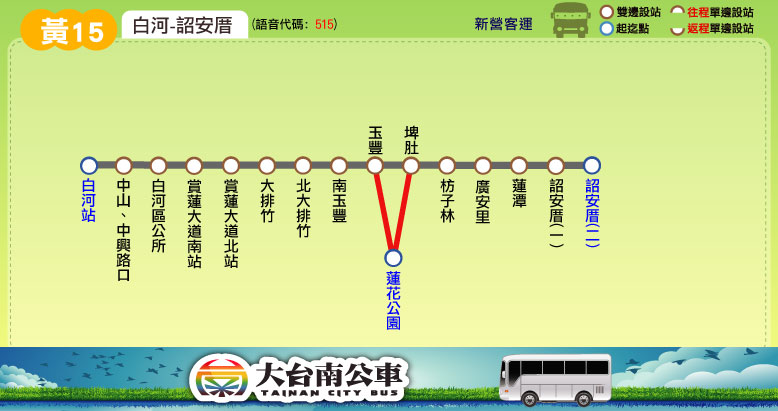
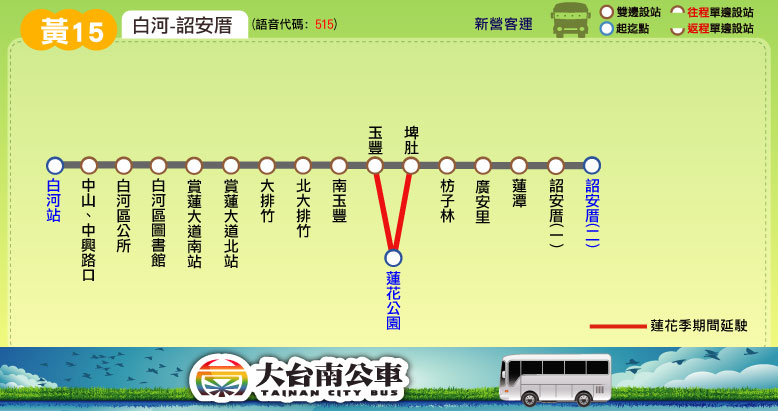
新增站位：黃6-1、黃10、黃15(增「白河區圖書館」)；更新票價表：黃10

Changed region(s): [[0.0617, 0.3796, 0.2159, 0.7007], [0.7404, 0.7591, 0.9563, 0.8175]]

diff --git a/route/fare_and_time/yellow_10.js b/route/fare_and_time/yellow_10.js
@@ -1,18 +1,19 @@
-yellow_10_interval_name = ["泰安宮","後壁<br />火車站","大路墘","顯濟宮","土溝里","白河","河東","大林","大林<br />路口","檨仔坑","石廟仔","籠仔內","六重溪"];
-yellow_10_interval_stop = [ // 2017.06.13 checked
+yellow_10_interval_name = ["泰安宮","後壁<br />火車站","大路墘","顯濟宮","土溝里","白河","河東","大林","大林<br />路口","檨仔坑","石廟仔","籠仔內","六重溪","鎮安宮"];
+yellow_10_interval_stop = [ // 2018.08.01 checked
 ["泰安宮","嘉苳里","下茄苳"], // 泰安宮
 ["後壁高中","良食故事館","後壁火車站","後壁區公所","後壁里","後壁國小"], // 後壁火車站
 ["大路墘"], // 大路墘
 ["嘉民里","東上茄苳","顯濟宮","永安國小"], // 顯濟宮
 ["土溝里","後壁竹子腳","下庄仔"], // 土溝里
-["白河商工","舊地政","白河國中","白河分局","中山、中興路口","白河站","念佛會"], // 白河
+["白河區圖書館","白河商工","舊地政","白河國中","白河分局","中山、中興路口","白河站","念佛會"], // 白河
 ["凹底","畚箕湖","河東","河東國小"], // 河東
 ["竹林路口","大林","大林中山堂","檨子林","下厝仔"], // 大林
 ["大林路口","山頂仔"], // 大林路口
-["檨仔坑","台影文化城"], // 檨仔坑
-["石廟仔"], // 石廟仔
+["檨仔坑"], // 檨仔坑
+["台影文化城","石廟仔"], // 石廟仔
 ["三重溪","籠仔內"], // 籠仔內
-["六溪國小","六溪部落","六重溪","南勢仔","禪源","頂埔","鎮安宮"] // 六重溪
+["六溪國小","六溪部落","六重溪","南勢仔","禪源","頂埔"], // 六重溪
+["鎮安宮"] // 鎮安宮
 ];
 yellow_10_fare = [
 [26],
@@ -22,12 +23,13 @@ yellow_10_fare = [
 [27,26,26,26,26],
 [43,34,28,26,26,26],
 [51,42,36,29,26,26,26],
-[55,45,40,33,28,26,26,26],
-[59,49,43,37,32,26,26,26,26],
-[63,53,48,41,36,26,26,26,26,26],
-[65,55,50,43,38,26,26,26,26,26,26],
-[69,60,54,47,42,26,26,26,26,26,26,26],
-[73,63,58,51,46,30,26,26,26,26,26,26,26]
+[55,46,40,34,28,26,26,26],
+[59,50,44,37,32,26,26,26,26],
+[63,54,48,42,36,26,26,26,26,26],
+[66,56,51,44,39,26,26,26,26,26,26],
+[70,60,55,48,43,27,26,26,26,26,26,26],
+[73,64,58,52,46,30,26,26,26,26,26,26,26],
+[78,69,63,56,51,35,27,26,26,26,26,26,26,26]
 ];
 // format = [time at the start stop] or
 // [time, other] or

diff --git a/route/fare_and_time/yellow_15.js b/route/fare_and_time/yellow_15.js
@@ -1,6 +1,6 @@
 yellow_15_interval_name = ["白河","大排竹","玉豐","埤肚","枋子林","蓮潭","詔安厝"];
 yellow_15_interval_stop = [
-["白河站","中山、中興路口","白河區公所"], // 白河
+["白河站","中山、中興路口","白河區公所","白河區圖書館"], // 白河
 ["賞蓮大道南站","賞蓮大道北站","大排竹","北大排竹"], // 大排竹
 ["南玉豐","玉豐","蓮花公園"], // 玉豐
 ["埤肚"], // 埤肚

diff --git a/route/fare_and_time/yellow_6_1.js b/route/fare_and_time/yellow_6_1.js
@@ -12,7 +12,7 @@ yellow_6_1_interval_stop = [ // 2015.7.5 checked
 ["小南海風景區","將軍埤","開天府","水岸木棧道","永安國小","土溝里"], // 小南海風景區
 ["林初埤","海豐厝"], // 林初埤
 ["北大排竹","大排竹","賞蓮大道北站","賞蓮大道南站"], // 大排竹
-["白河區公所","白河站"] // 白河站
+["白河區圖書館","白河區公所","白河站"] // 白河站
 ];
 yellow_6_1_fare = [
 [26],
